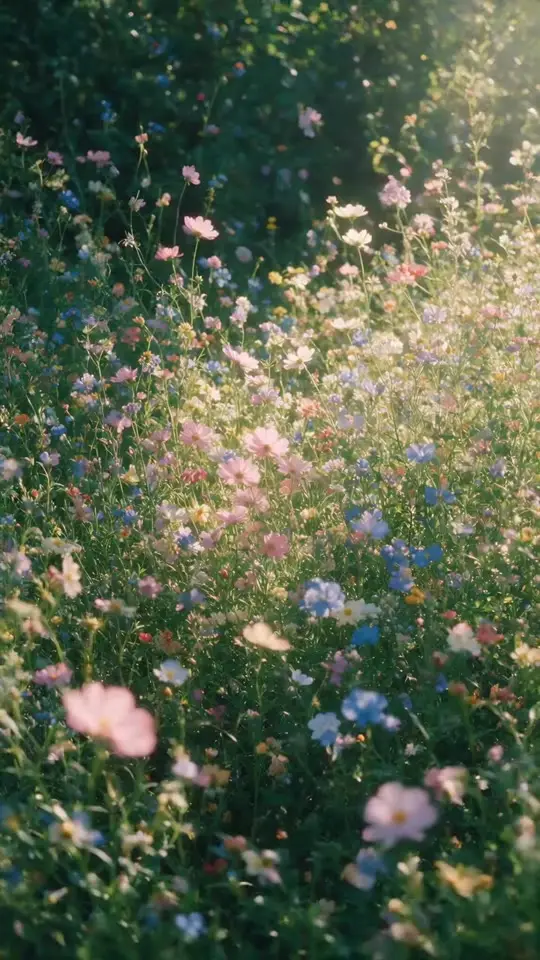
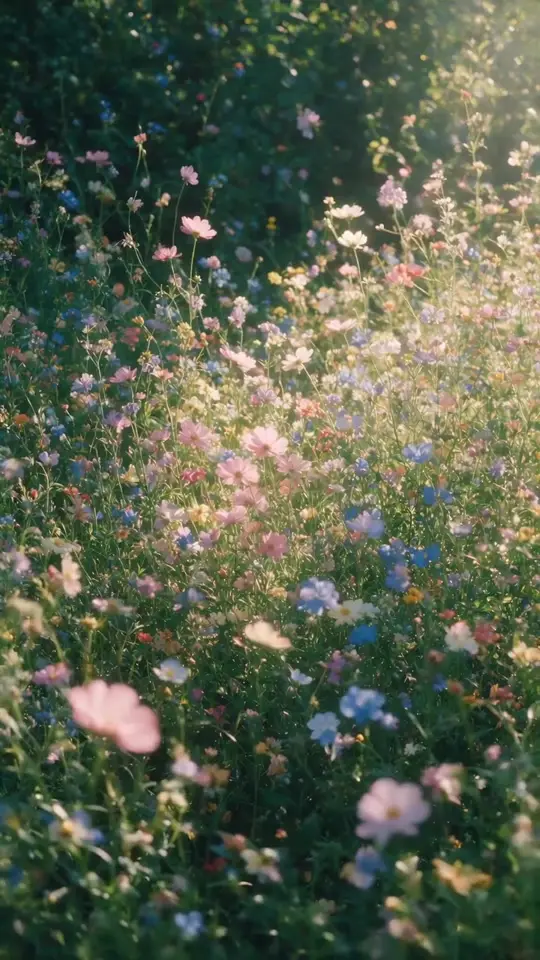
t33: still matches the first frame of the meadow loop now on Supabase
Claude-Session: https://claude.ai/code/session_01V4RDDV9jqM6BBijw6Ese9L

diff --git a/docs/CREDITS.md b/docs/CREDITS.md
@@ -99,7 +99,7 @@ Các hình hoa do chủ repo tạo bằng Google Gemini (theo câu lệnh Claude
 
 ## Mẫu 33 · Nắng đồng hoa (`my-wed/design/t33/`, chép sang `src/static/t33/`)
 
-Video đồng hoa do chủ repo tự làm và cho phép dùng: bản thử ở `design/t33/video/`; bản dùng trong thiệp là đoạn giây 4–8 của video gốc, nối vòng lặp mượt (`meadow-loop.mp4`, để trên Supabase Storage `media/templates/t33/` vì Zalo không nhận .mp4 trong gói app), ảnh chờ `meadow-poster.webp` lấy từ bản thử. Các tranh còn lại do AI vẽ (model FLUX.2 [klein] 4B của Black Forest Labs, giấy phép **Apache 2.0**, chạy trên Cloudflare Workers AI của chủ repo), cùng một câu lệnh phong cách ảnh điện ảnh nắng ngược. Hoa vẽ trên nền trơn rồi tách nền bằng `scripts/design/cutout.py` (rembg, isnet-general-use); bướm vẽ trên nền đen (`--paper dark`). Dùng thương mại được, không bắt buộc ghi nguồn.
+Video đồng hoa do chủ repo tự làm và cho phép dùng: bản thử ở `design/t33/video/`; bản dùng trong thiệp là đoạn giây 4–8 của video gốc, nối vòng lặp mượt (`meadow-loop.mp4`, để trên Supabase Storage `media/templates/t33/` vì Zalo không nhận .mp4 trong gói app), ảnh chờ `meadow-poster.webp` là khung đầu của nó. Các tranh còn lại do AI vẽ (model FLUX.2 [klein] 4B của Black Forest Labs, giấy phép **Apache 2.0**, chạy trên Cloudflare Workers AI của chủ repo), cùng một câu lệnh phong cách ảnh điện ảnh nắng ngược. Hoa vẽ trên nền trơn rồi tách nền bằng `scripts/design/cutout.py` (rembg, isnet-general-use); bướm vẽ trên nền đen (`--paper dark`). Dùng thương mại được, không bắt buộc ghi nguồn.
 
 | Tệp | Nội dung | Dùng ở |
 | --- | --- | --- |
